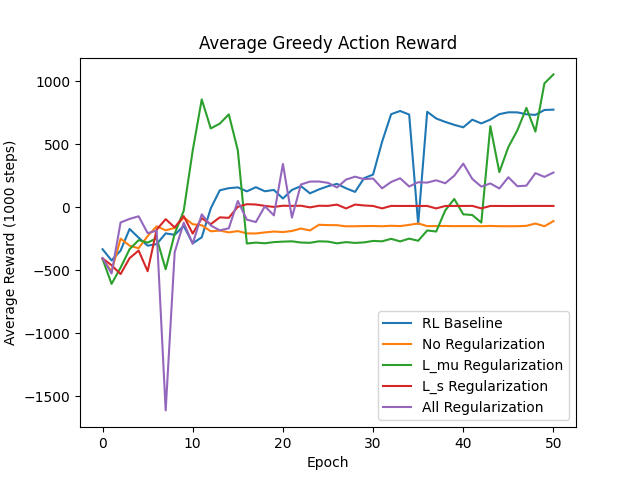
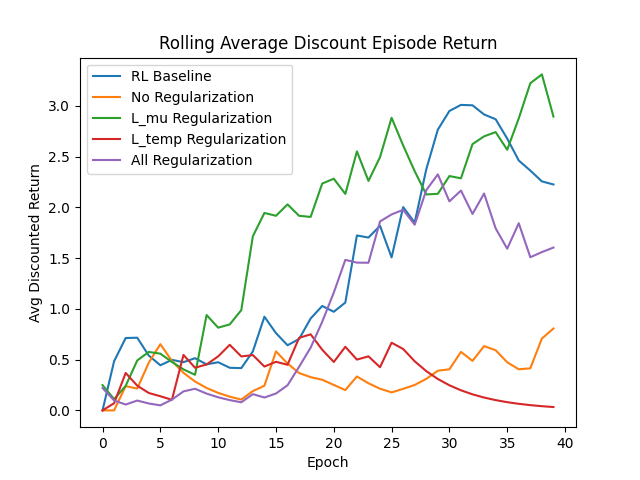
graphs

diff --git a/clean/plot_data copy.py b/clean/plot_data copy.py
@@ -28,18 +28,13 @@ def getData(version):
             else:
                 try:
                     for i in range(len(row)):
-                        data[header[i]].append(float(row[i])*100)
+                        data[header[i]].append(float(row[i]))
                 except:
                     continue
-
-
+    
     for k in data.keys():
-        while len(data[k]) < len(data["no_reg"]):
-            data[k].append(data[k][-1])
+        data[k] = np.array(data[k][:40])
 
-        data[k] = np.array(data[k])
-
-    print(len(data['all_reg']))
     return data
 
 
@@ -48,7 +43,7 @@ def main():
     data = []
     for v in VERSIONS:
         data.append(getData(v)[TARGET])
-    
+
     data = np.stack(data)
 
     plt.plot(data.T)
@@ -56,12 +51,12 @@ def main():
         'RL Baseline',
         'No Regularization',
         'L_mu Regularization',
-        'L_s Regularization',
+        'L_temp Regularization',
         'All Regularization'
     ])
-    plt.title("Average Greedy Action Reward")
+    plt.title("Rolling Average Discount Episode Return")
     plt.xlabel("Epoch")
-    plt.ylabel("Average Reward (1000 steps)")
+    plt.ylabel("Avg Discounted Return")
     plt.savefig("reward.png")
 
 
